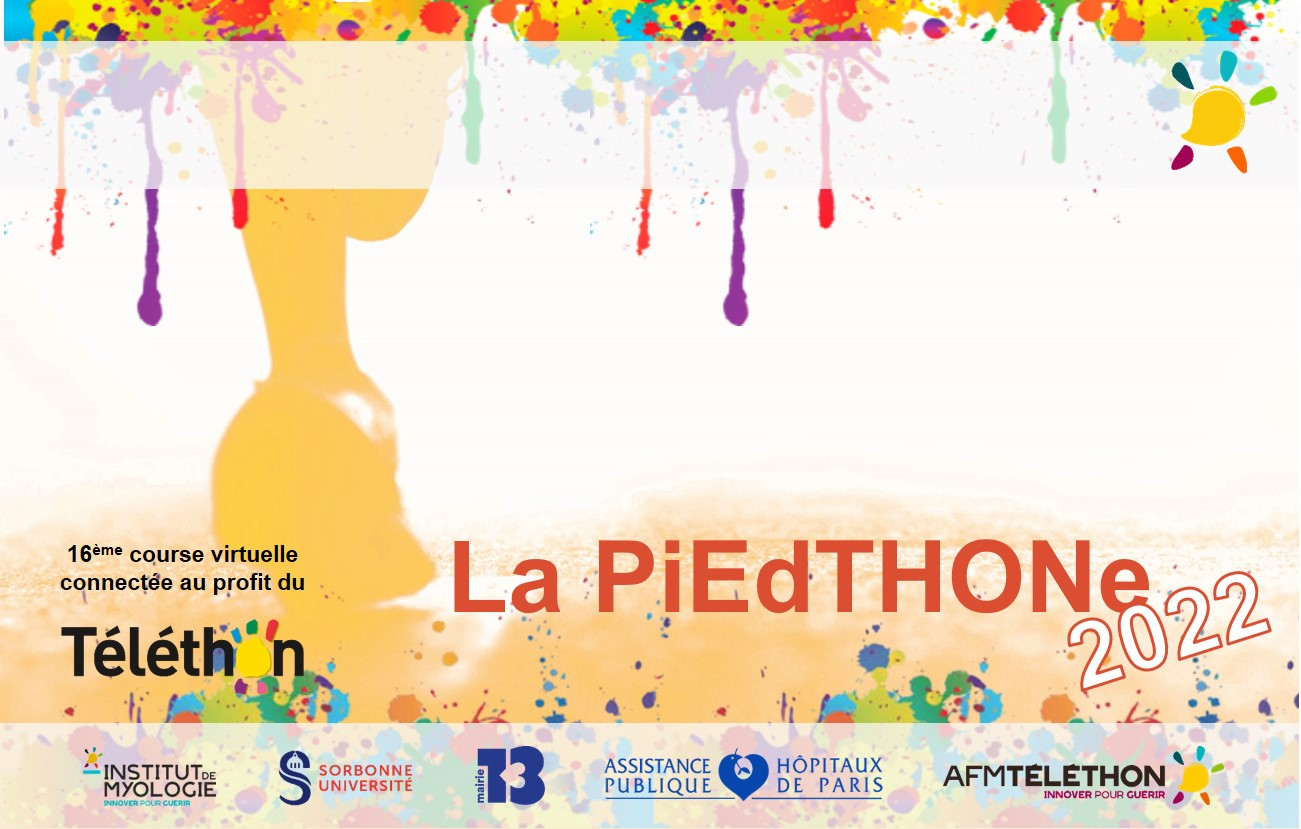
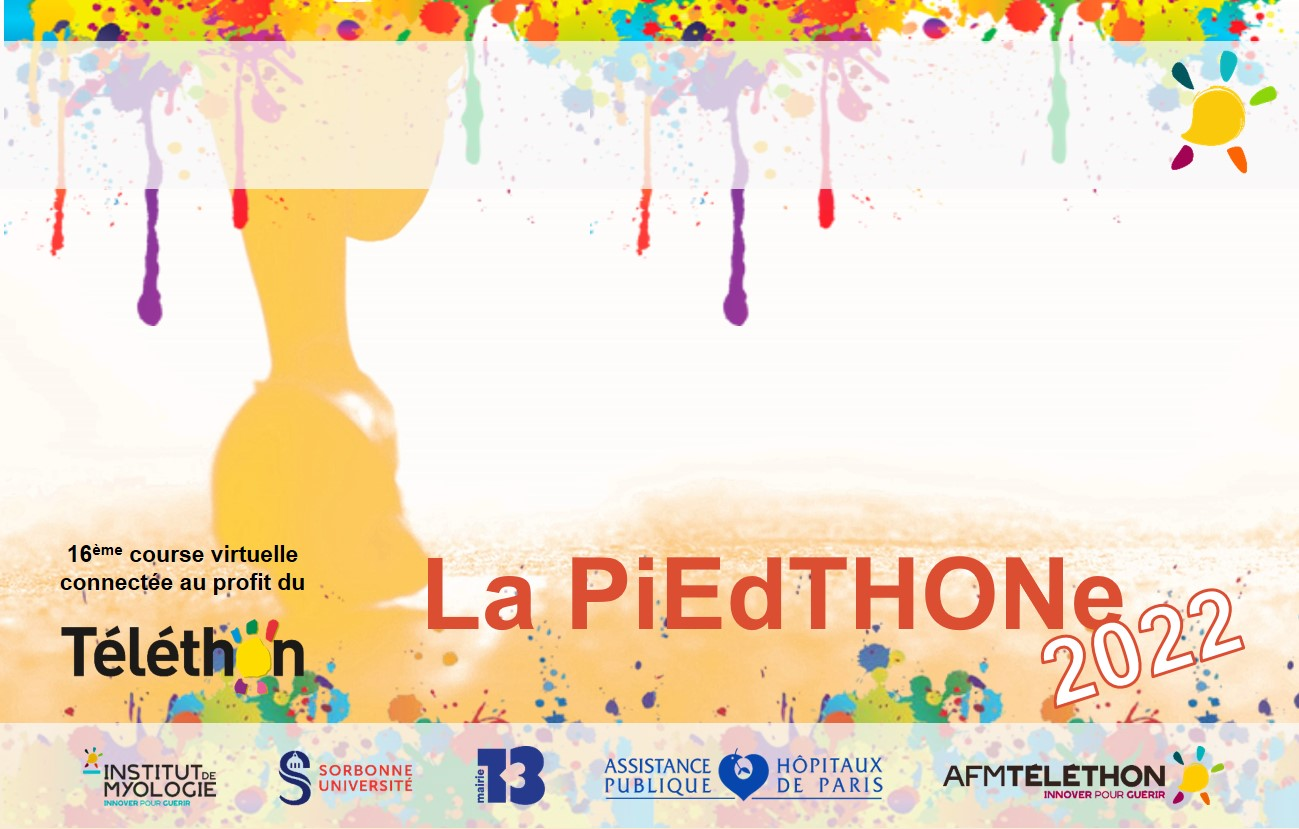
update

diff --git a/2022.py b/2022.py
@@ -36,7 +36,7 @@ def import_image(image, title_font_name, title_font_number, title_font_course, f
     number_text = str(doss_nb)
     image_editable = ImageDraw.Draw(my_image)
     image_editable.text((15,75), name_text, (0, 0, 0), font=title_font_name)
-    image_editable.text((440,350), number_text, (0, 0, 0), font=title_font_number)
+    image_editable.text((440,330), number_text, (0, 0, 0), font=title_font_number)
     image_editable.text((1025,200), course_text, (0, 0, 0), font=title_font_course)
     return my_image
    
